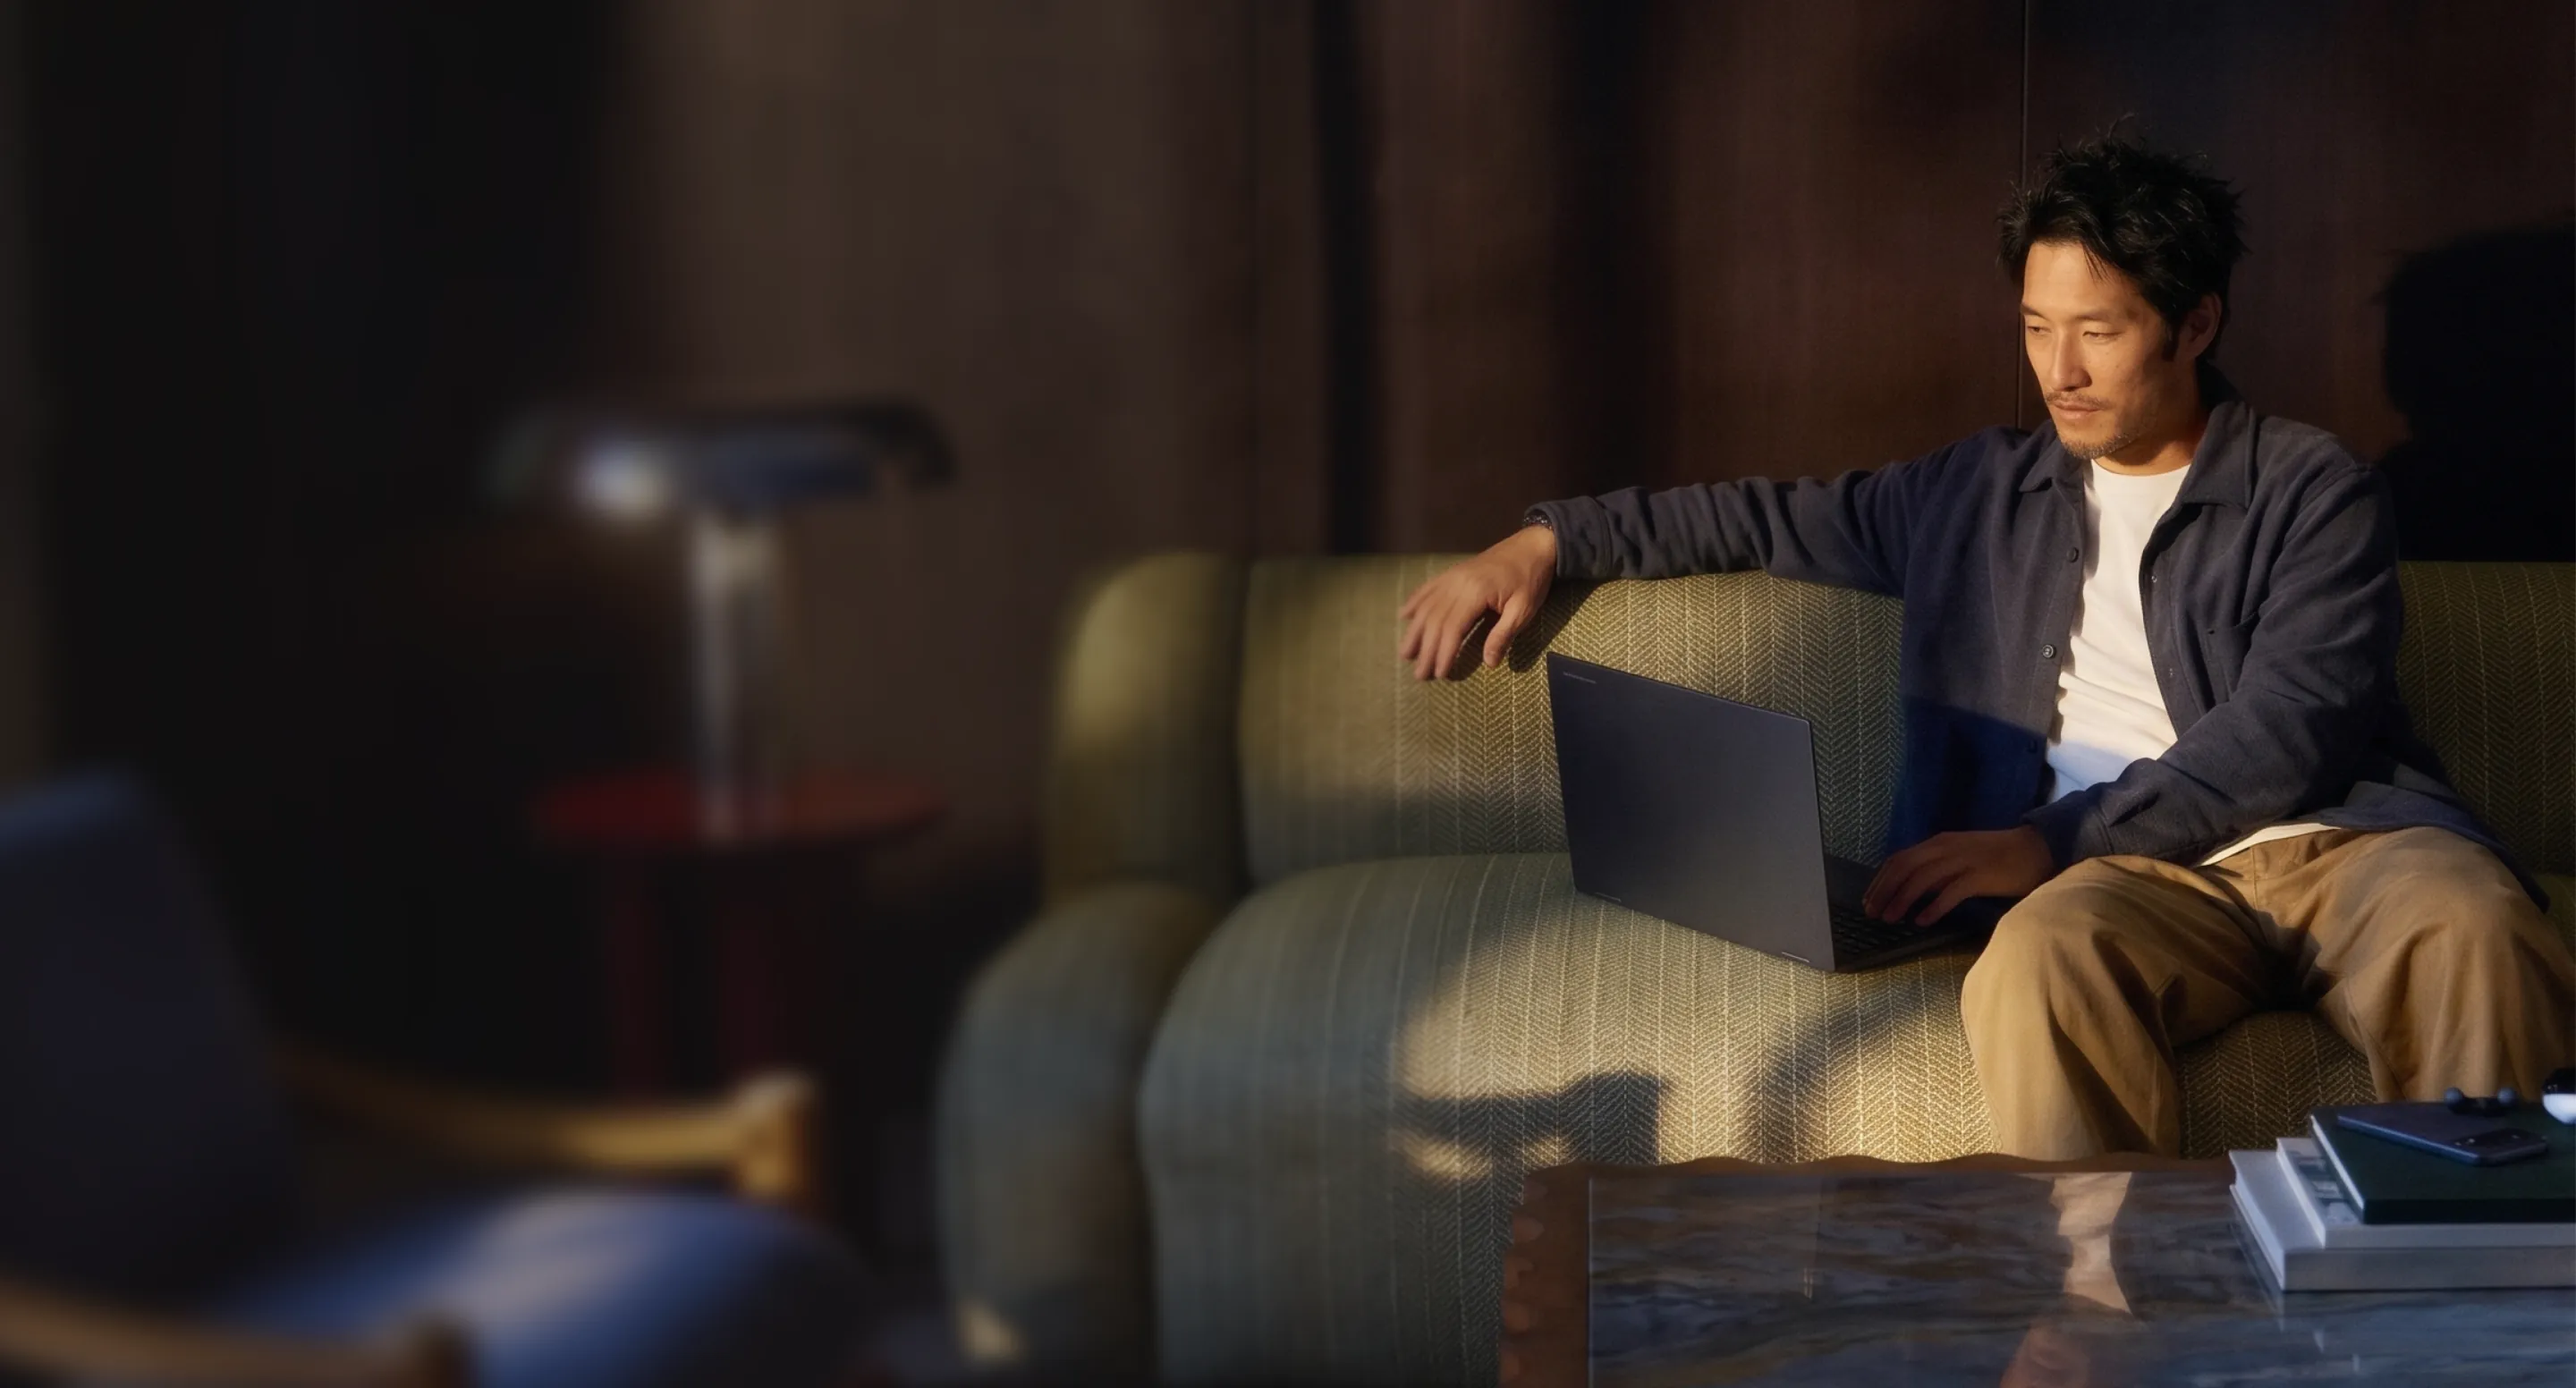
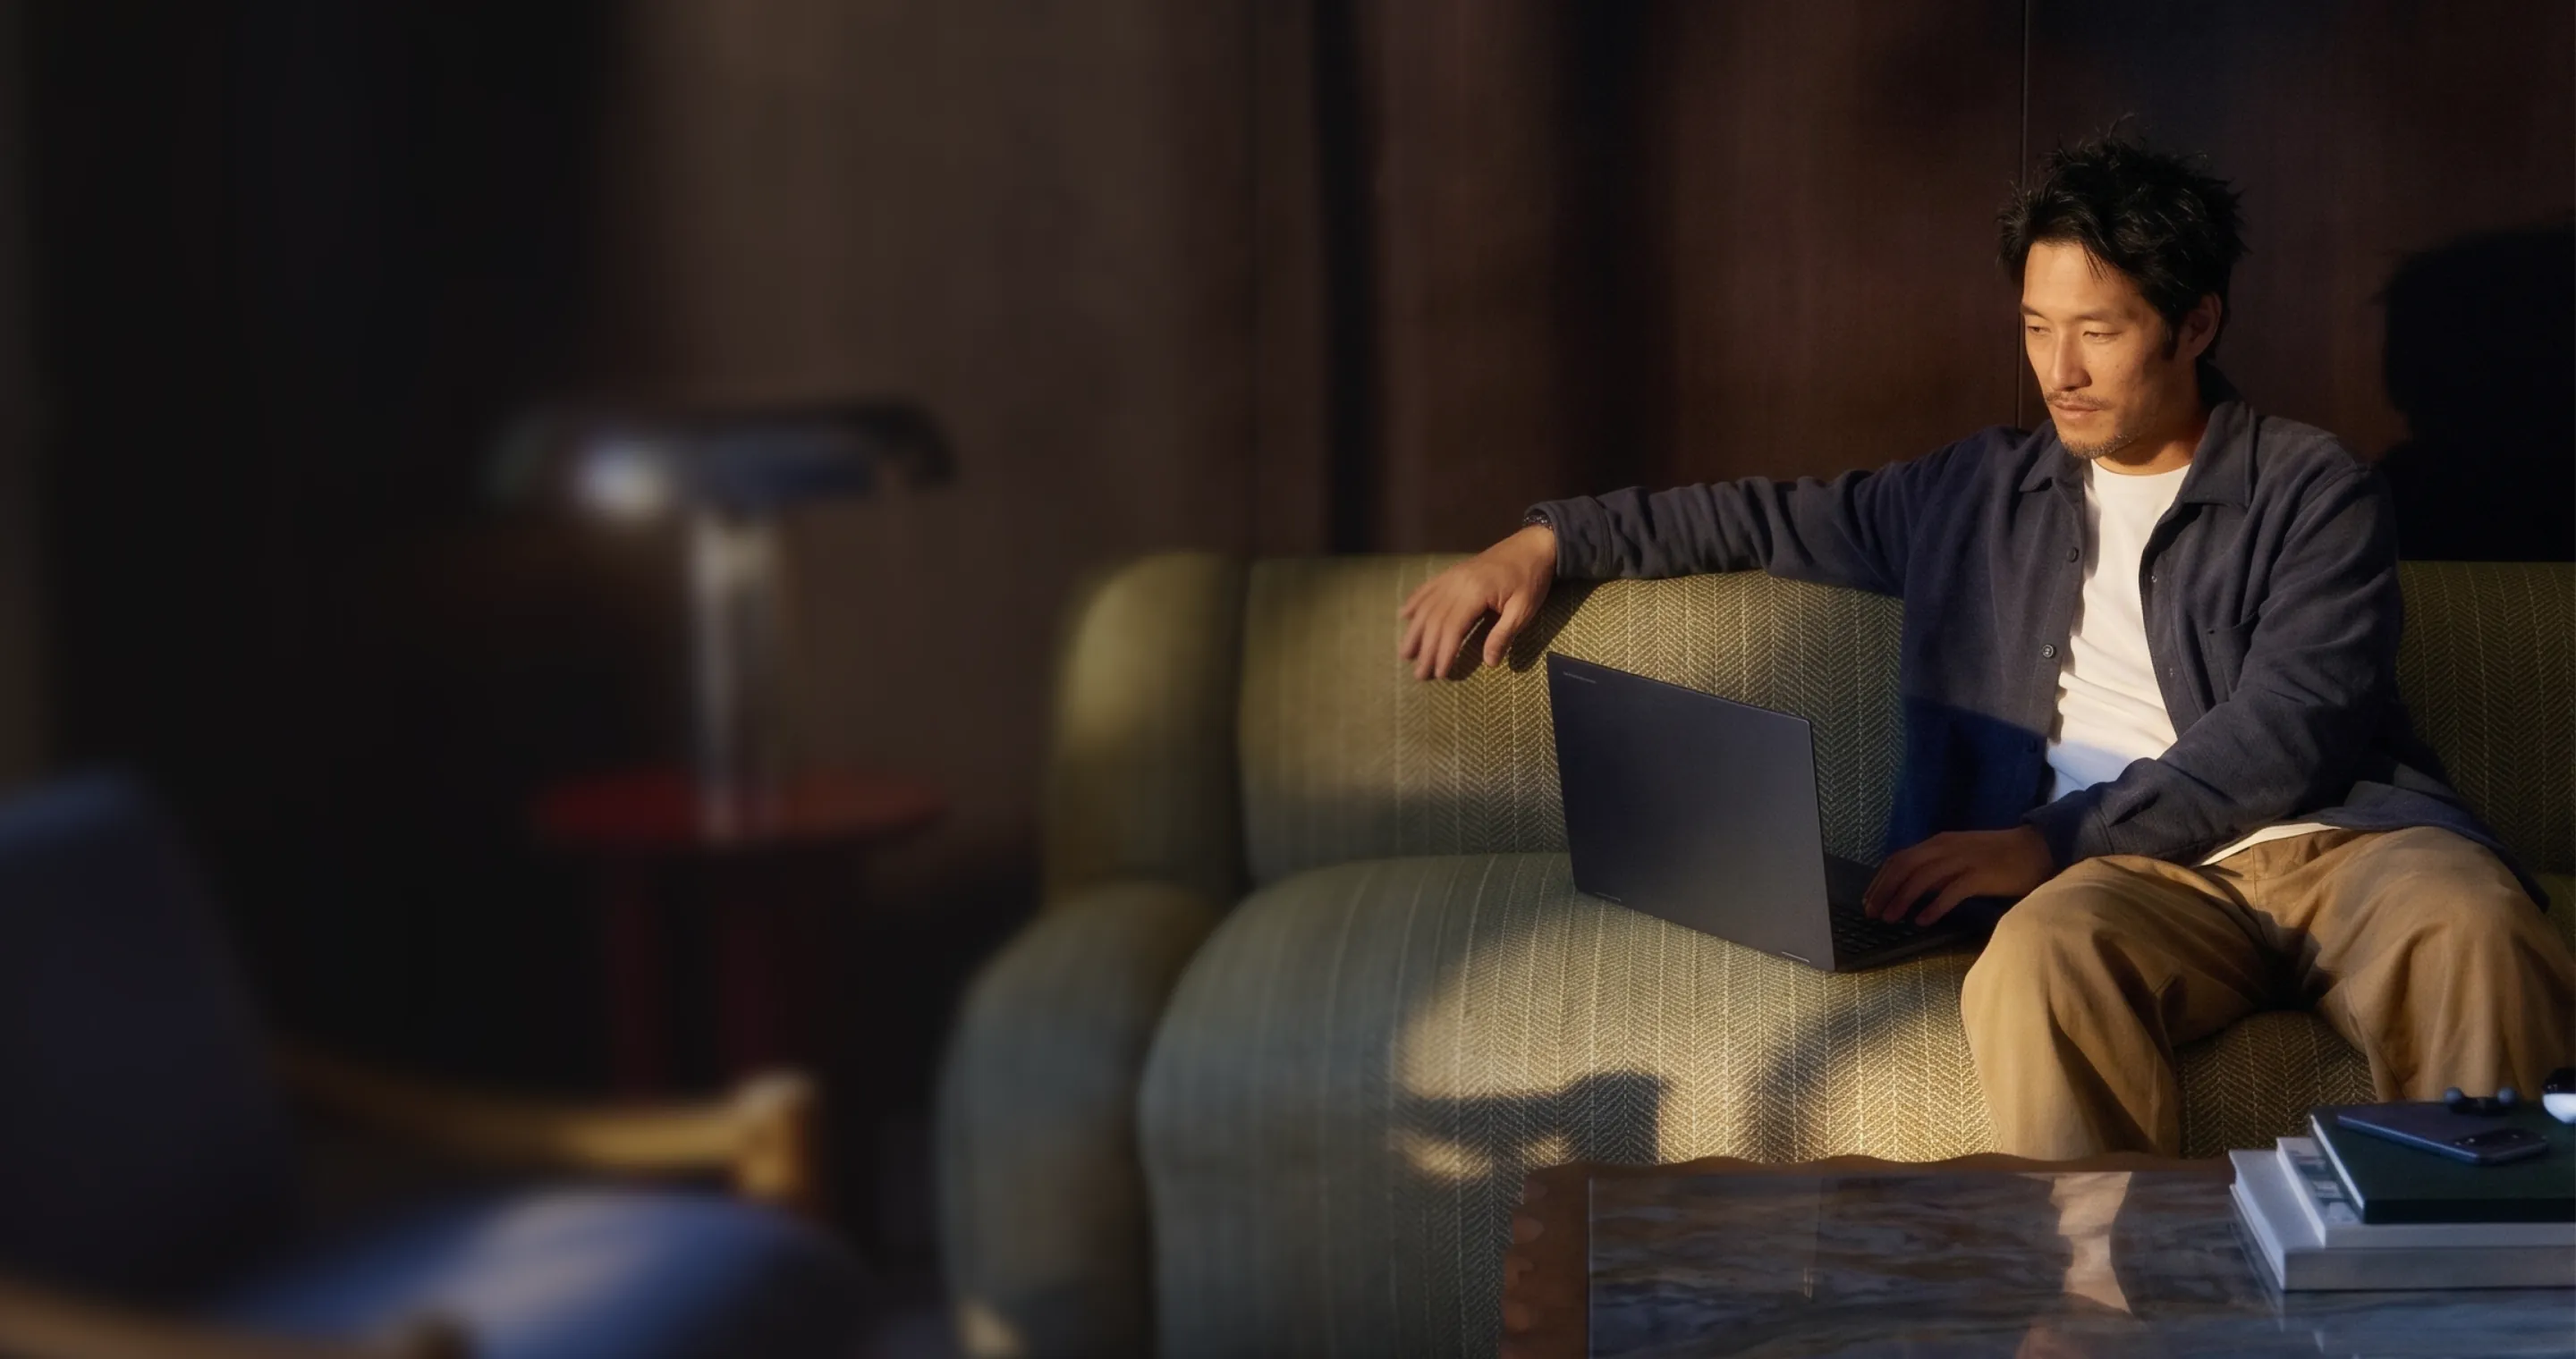
Creative Team hero: 760px, as in the Figma v5 frame
Claude-Session: https://claude.ai/code/session_019fPYJCfpmtv75kqvdKdEBc

diff --git a/css/ctaas.css b/css/ctaas.css
@@ -228,7 +228,7 @@
    to the right edge at every width; above 1440px the hero grows with the width so the framing never changes. */
 .ct-hero--v5 { background-image: url("../assets/img/ctaas/hero-v5.jpg"); background-image: image-set(url("../assets/img/ctaas/hero-v5.webp") 1x, url("../assets/img/ctaas/hero-v5@2x.webp") 2x); background-size: cover; background-position: 100% 0; }
 .ct-hero--v5::before { content: none; }
-@media (min-width: 992px) { .ct-hero--v5 { height: max(776px, 53.8889vw); } .ct-hero--v5 .ct-hero__inner { padding-top: max(230px, 15.9722vw); } .ct-hero--v5 + .ct-clients { padding-top: 112px; } }
+@media (min-width: 992px) { .ct-hero--v5 { height: max(760px, 52.7778vw); } .ct-hero--v5 .ct-hero__inner { padding-top: max(230px, 15.9722vw); } .ct-hero--v5 + .ct-clients { padding-top: 112px; } }
 
 /* =========================== responsive =========================== */
 @media (max-width: 1100px) {

diff --git a/creative-team.html b/creative-team.html
@@ -18,7 +18,7 @@
   <link rel="stylesheet" href="css/base.css?v=20261006a">
   <link rel="stylesheet" href="css/menu.css?v=20261029a">
   <link rel="stylesheet" href="css/sections.css?v=20261022u">
-  <link rel="stylesheet" href="css/ctaas.css?v=37">
+  <link rel="stylesheet" href="css/ctaas.css?v=38">
 </head>
 <body class="is-ctaas">
 

diff --git a/fondation.html b/fondation.html
@@ -18,7 +18,7 @@
   <link rel="stylesheet" href="css/base.css?v=20261006a">
   <link rel="stylesheet" href="css/menu.css?v=20261029a">
   <link rel="stylesheet" href="css/sections.css?v=20261022u">
-  <link rel="stylesheet" href="css/ctaas.css?v=37">
+  <link rel="stylesheet" href="css/ctaas.css?v=38">
 </head>
 <body class="is-ctaas">
 
